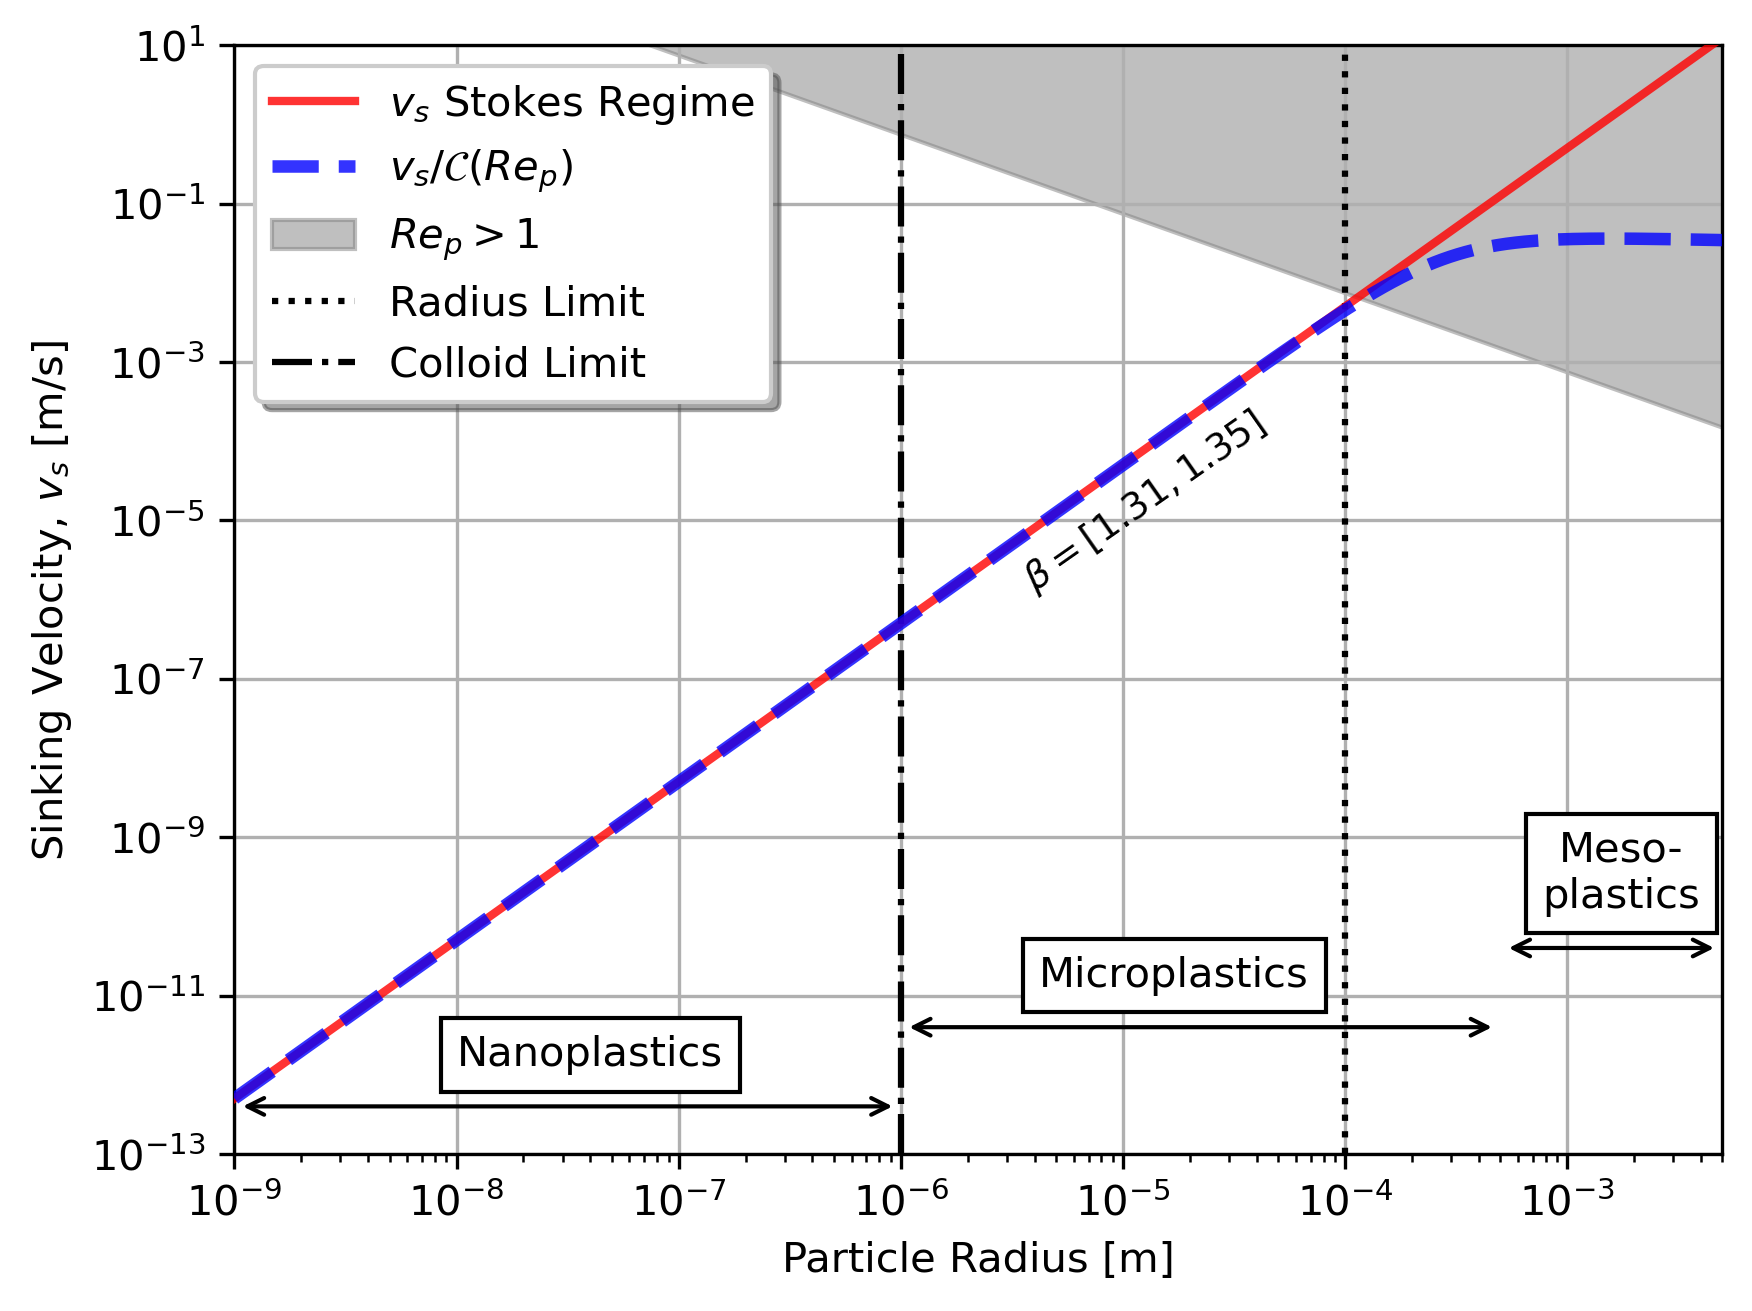
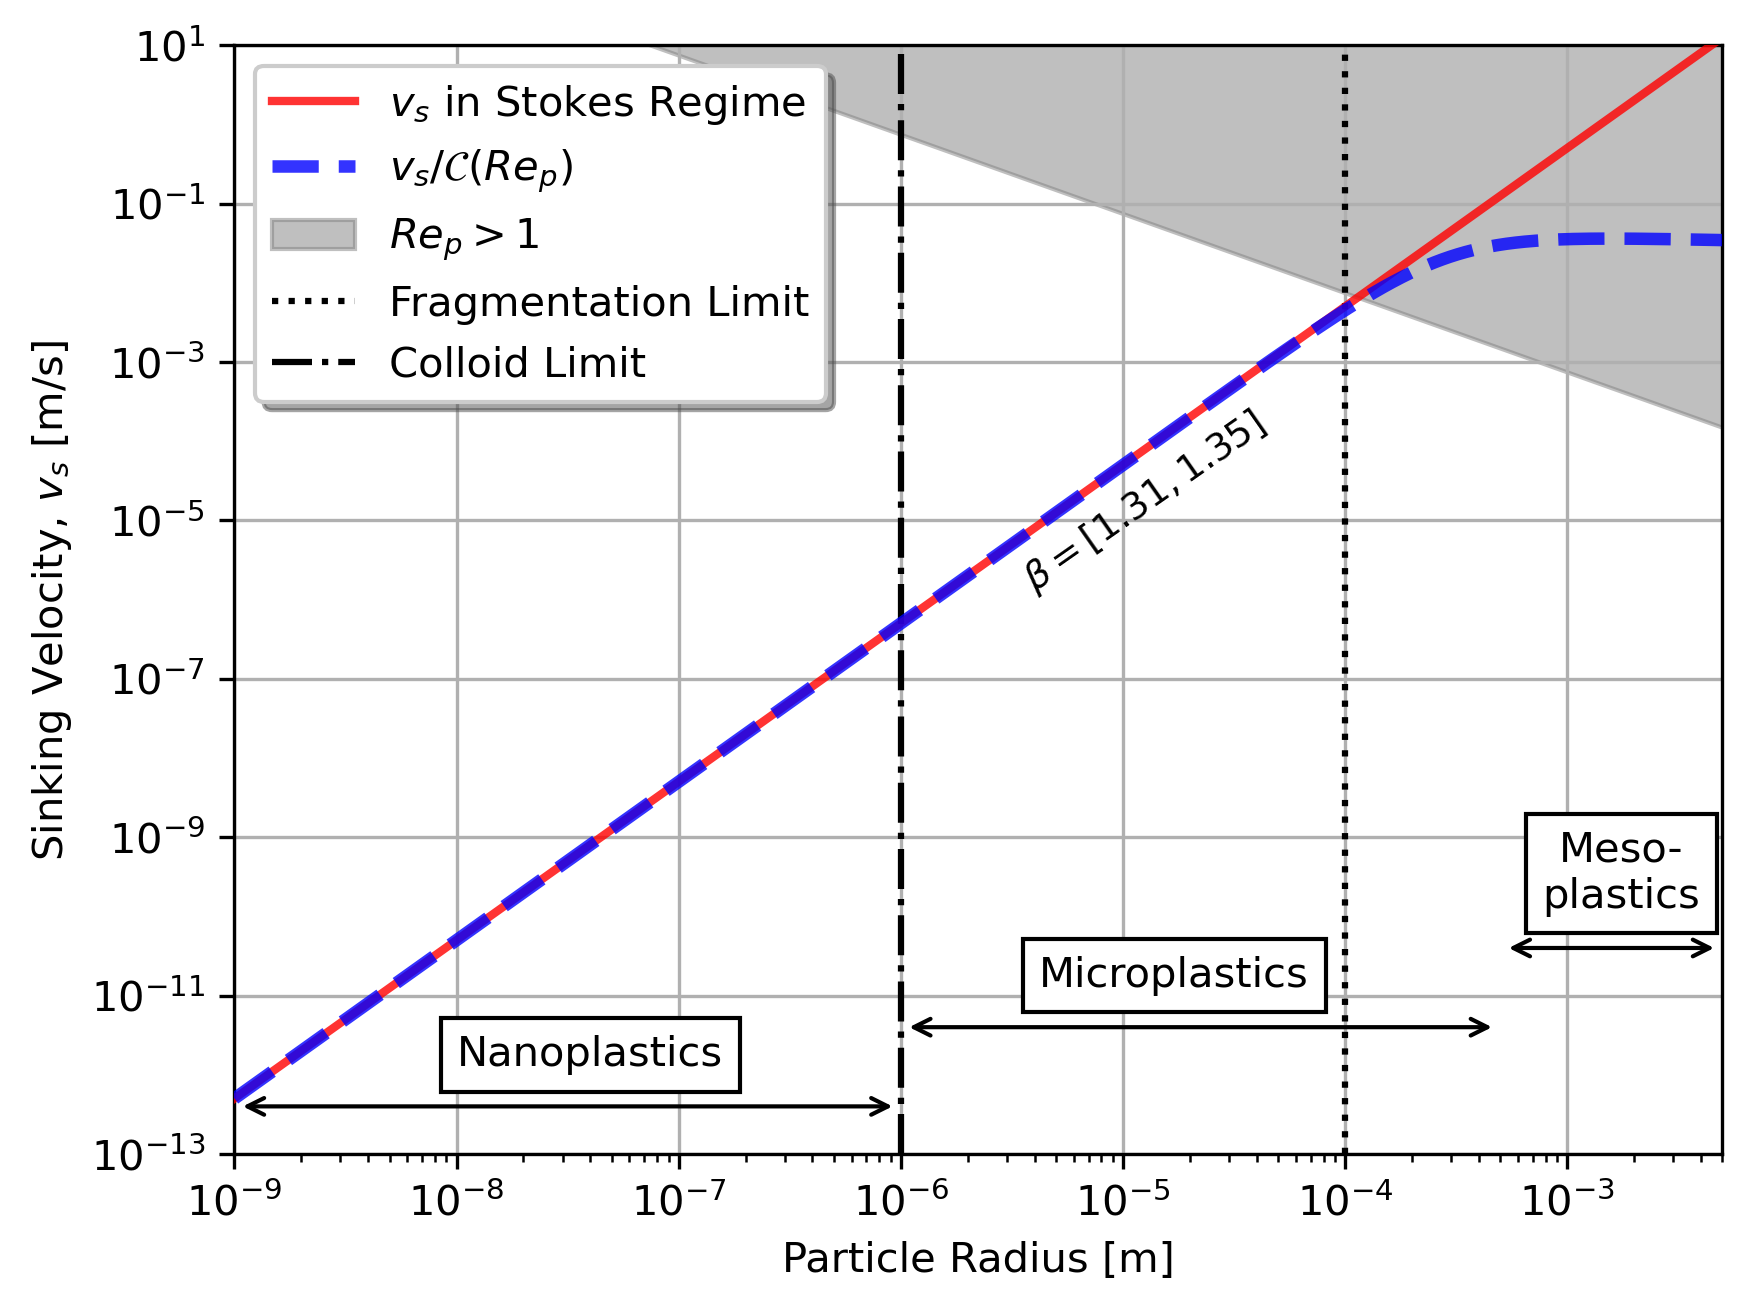
match markers from F4-6 to F3

Changed region(s): [[0.2158, 0.0305, 0.4932, 0.3356]]

diff --git a/analysis/size_distribution.py b/analysis/size_distribution.py
@@ -96,6 +96,11 @@ for ft in simulations:
 
 df.to_csv('../data/size_distribution_surface.csv')
 # df.to_latex('../article_figs/surface_events_numbers.tex') # to print in latex format and save in a file
+# %%
+# Load frag_into_NPs
+
+frag_into_NPs = np.load('../data/frag_into_NPs.npy', allow_pickle=True).item()
+
 
 # %% ecdf surfacetime and size distribution of particles at the surface
 
@@ -171,20 +176,21 @@ fig.savefig('../article_figs/ECDF_surface', dpi=300,
 # %% FIGURE 6 -
 fig, ax = plt.subplots(1, 1, figsize=(4, 3.5), tight_layout=True)
 
-ax.axvline(initial_depth, ls='-', color='k', lw=1)
+ax.axvline(initial_depth, ls='-', color='k', lw=0.5)
 ax.text(initial_depth - 200, 0.65, r'Sampling Depth', fontsize=6, color='k', rotation=-90)
-ax.axvline(0, ls='-', color='k', lw=1)
+ax.axvline(0, ls='-', color='k', lw=0.5)
 ax.text(0-220, 0.7, r'Surface', fontsize=6, color='k', rotation=-90)
 
 colors = plt.get_cmap('tab10').colors
-line_styles = ['-', '--', '-.', ':']
+line_styles = ['--', '-', ':', '-.']
 
 ax.set_prop_cycle(cycler(color=colors[:4]) + cycler(linestyle=line_styles))
 
 for j, ft in enumerate(simulations[::-1]):
     x, y = funk.ecdf(frag_into_NPs[ft]['depths'], normalized=True,
                      invert=False)
-    ax.plot(x, y, drawstyle='steps-post', label=f'$\lambda_f$ = {ft} days')
+    ax.plot(x, y, drawstyle='steps-post', label=f'$\lambda_f$ = {ft} days', 
+            zorder=5-j, lw=2)
     
 handles, labels = ax.get_legend_handles_labels()
 handles = handles[::-1]
@@ -207,19 +213,20 @@ fig.savefig('../article_figs/Figure6.png', dpi=300,
 
 fig, ax = plt.subplots(1, 1, figsize=(4, 3.5), tight_layout=True)
 
-ax.axvline(1e-6, ls='-', lw=1, color='black')
-ax.axvline(1e-4, ls='-', lw=1, color='black')
-ax.text(1e-6, 0.08, r"1 $\mu m$ Limit", fontsize=6, color='k', rotation=-90)
-ax.text(1.1e-4, 0.01, r"Fragmentation Limit", fontsize=6, color='black', rotation=-90)
+ax.axvline(1e-6, ls='-', lw=0.5, color='black')
+ax.axvline(1e-4, ls='-', lw=0.5, color='black')
+ax.text(1e-6, 0.08, r"Colloid Limit", fontsize=6, color='k', rotation=-90)
+ax.text(1.e-4, 0.01, r"Fragmentation Limit", fontsize=6, color='black', rotation=-90)
 
 colors = plt.get_cmap('tab10').colors
-line_styles = ['-', '--', '-.', ':']
+line_styles = ['--', '-', ':', '-.']
 
 ax.set_prop_cycle(cycler(color=colors[:4]) + cycler(linestyle=line_styles))
 
 for j, ft in enumerate(simulations[::-1]):
     x, y = funk.ecdf(surface_events[ft]['radius'], normalized=True)
-    ax.plot(x, y, drawstyle='steps-post', label=f'$\lambda_f$ = {ft} days')
+    ax.plot(x, y, drawstyle='steps-post', label=f'$\lambda_f$ = {ft} days',
+            lw=2)
     
 handles, labels = ax.get_legend_handles_labels()
 handles = handles[::-1]
